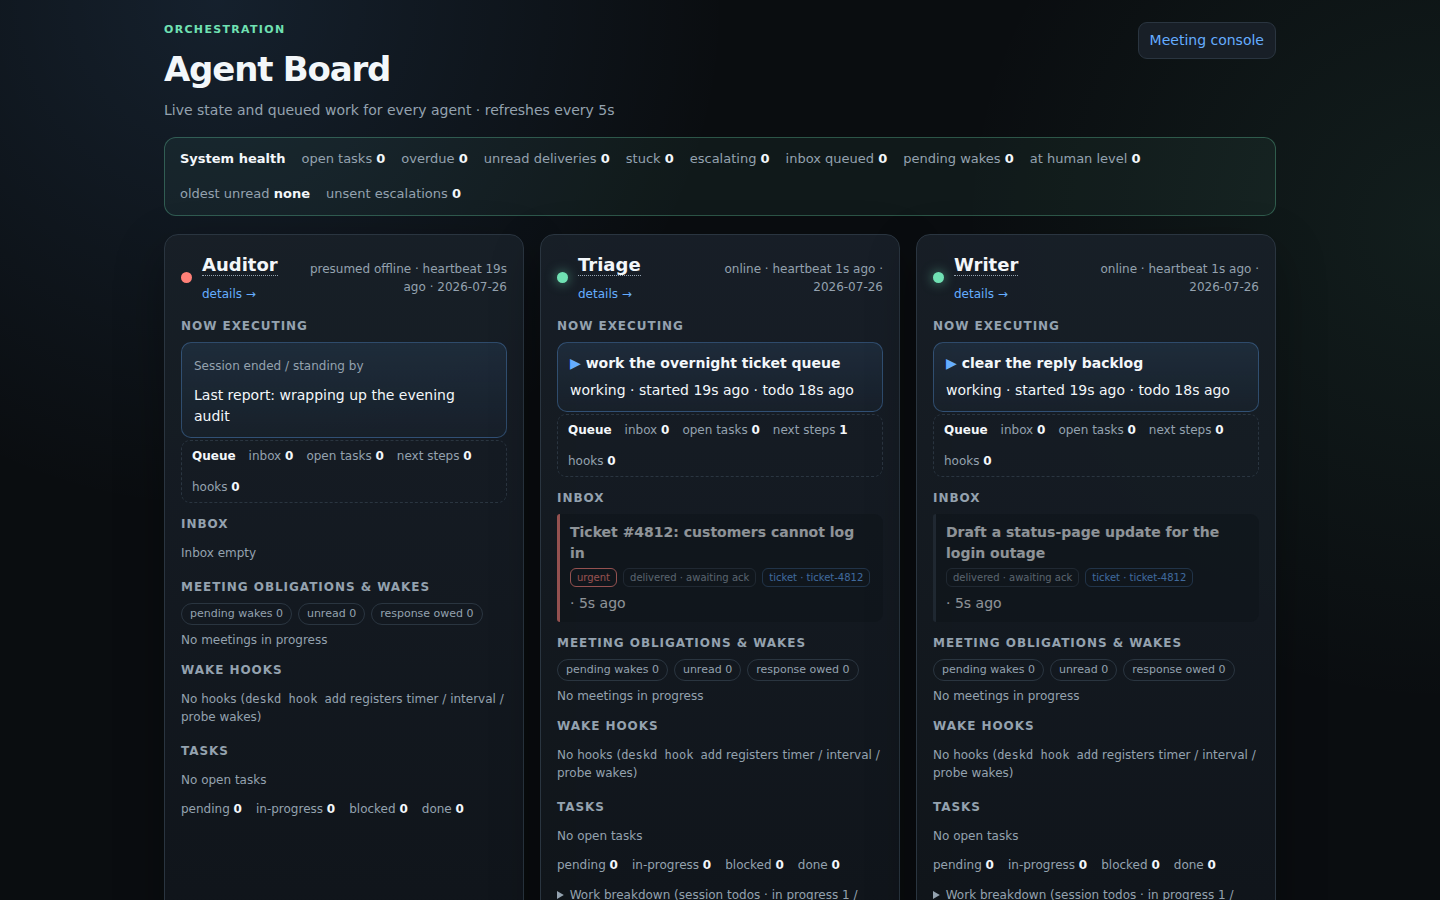
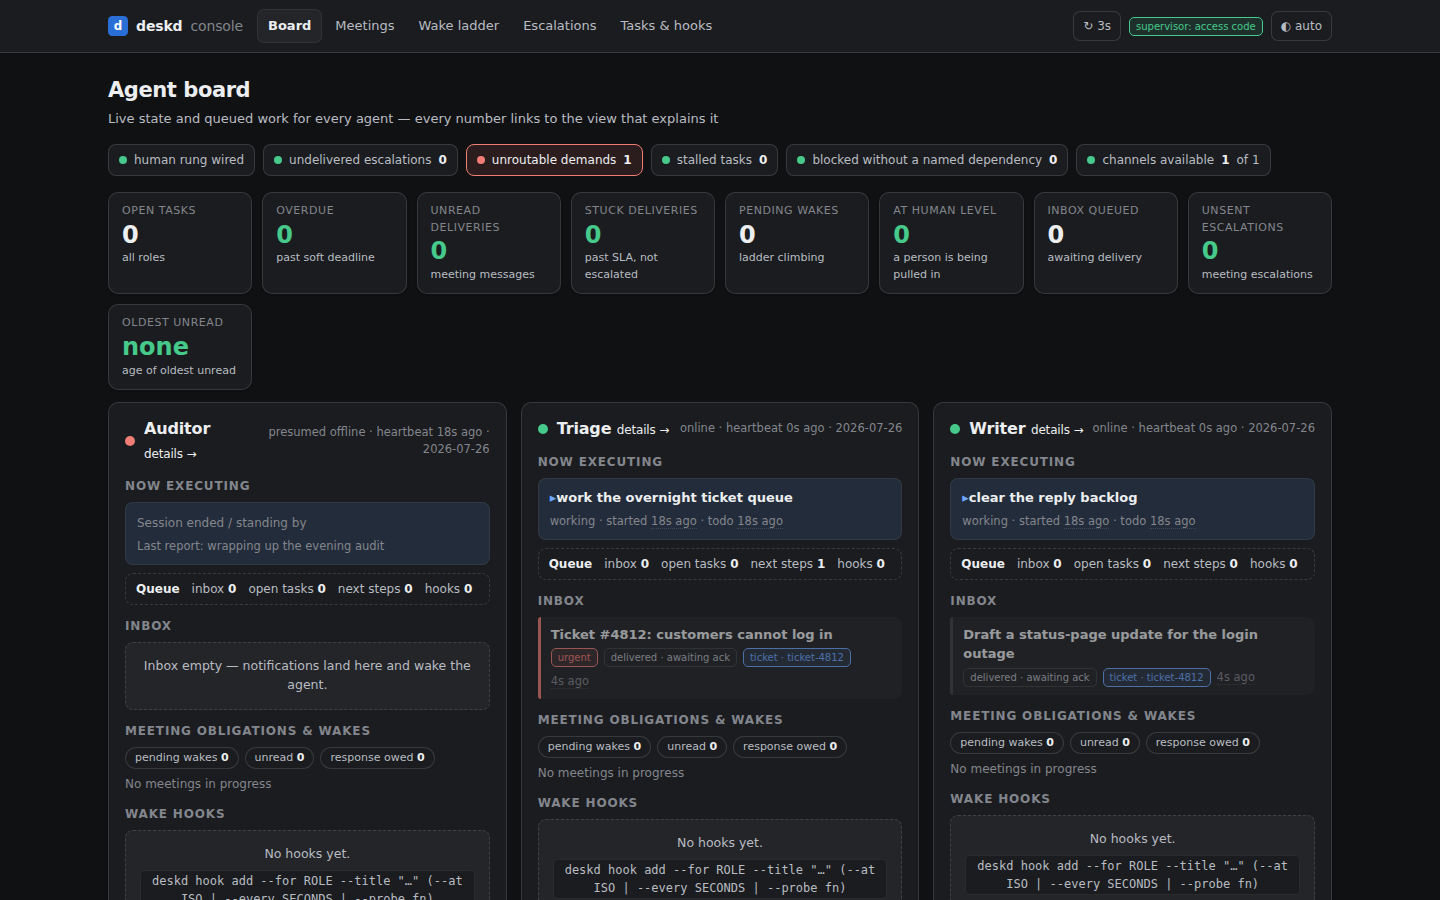
README: show the product's face, then say what it is not
A stranger got a thesis but no proof: no screenshots, no badges, no
runnable demo, and the one question every LangGraph visitor asks —
'is this another agent framework?' — answered only in paragraph three
of Design notes. Lead with the disambiguator, the board mid-escalation
(red = the guarantee breaking, named in the caption), a copy-paste
demo that needs no LLM, one architecture diagram instead of table-cell
prose, and a comparison that states what deskd deliberately does not
do — the anti-hype list is the credibility play.

The screenshots ride along because the committed set showed the old
three-page console; these are re-captures against the six-view shell
the branch actually ships.

diff --git a/README.md b/README.md
@@ -1,17 +1,24 @@
 # deskd
 
-**An orchestration engine for multi-agent desks.** deskd owns the part that is
-hard and domain-agnostic: knowing which agents are alive, what they're doing,
-what's queued for them, and — the difficult bit — **reliably waking the right
-agent at the right time and proving the message actually landed.**
+**Wakes your agents. Proves the message landed.**
 
-Your agents do the domain work. deskd does everything else.
+[![PyPI](https://img.shields.io/pypi/v/deskd)](https://pypi.org/project/deskd/)
+[![Python](https://img.shields.io/pypi/pyversions/deskd)](https://pypi.org/project/deskd/)
+[![tests](https://github.com/hongdp/deskd/actions/workflows/ci.yml/badge.svg)](https://github.com/hongdp/deskd/actions/workflows/ci.yml)
+[![License: MIT](https://img.shields.io/badge/license-MIT-blue.svg)](LICENSE)
 
-> Built for headless [Claude Code](https://claude.com/claude-code) agents
-> (`claude -p` + a `PostToolUse` hook), but the engine is a plain Python package
-> over SQLite with no hard dependency on any particular agent runtime.
+deskd never runs your agents. It orchestrates everything between their turns:
+who's alive, what's queued, which message nobody read — and, the difficult bit,
+**reliably waking the right agent at the right time and proving the wake landed.**
 
----
+<picture>
+  <source media="(prefers-color-scheme: dark)" srcset="docs/images/board-escalation-dark.png">
+  <img alt="The deskd console board mid-escalation: three agent columns with live presence, queues, and a health strip; the unroutable-demands chip, the at-human-level tile, and the Auditor's waking-L3 chip are red" src="docs/images/board-escalation-light.png">
+</picture>
+
+*Red is the guarantee breaking, on purpose: a demand no role can take
+(`unroutable demands: 1`), a person being pulled in (`at human level: 1`), and
+the Auditor — presumed offline, its wake ladder at `waking L3`.*
 
 ## Why
 
@@ -29,28 +36,29 @@ deskd's position: **agents must never manage their own waking.** They end their
 turn and the orchestrator wakes them — on a timer, on a calendar, on a custom
 watcher, on a message, or on an escalation ladder when a wake doesn't land.
 
-## What you get
+And one boundary holds everywhere: **the supervisor is not an agent.** Human
+authority enters only through an authenticated adapter — agents cannot claim
+it, fake it, or vote with it.
 
-| | |
-|---|---|
-| **Presence** | One live session per role, enforced by a role-scoped `flock`. Heartbeats from the in-session hook; crash-safe (the kernel releases the lock). |
-| **Unified inbox** | Every notification — alerts, signals, system events, meeting messages — lands in one queue per role, with per-key dedup so a re-firing alert never piles up. |
-| **Wake orchestration** | Collect demand → route by presence → record the attempt → **verify the loop closed** → escalate. A wake that doesn't land climbs: in-session hook → resume → spawn → human (Discord/email) → a red badge on the supervisor console that never times out. |
-| **Self-service wake hooks** | An agent registers its own wakes: `--at` (one-shot), `--every` (interval), `--cron` (calendar, DST-correct), or `--probe` (**your own watcher function** — return a dict and it wakes you). |
-| **Delivery ledger** | Per message × recipient: `queued → notified → read`. Past SLA and unread with nobody reacting = **`overdue`** — surfaced red. Rows are a projection of durable messages, so a delivery can't be silently lost. |
-| **Bounded meetings** | Multi-agent meetings with check-in/quorum, mandatory 1:1 replies with an SLA, message budgets, and a mutual termination handshake. Bounded by construction — no infinite agent chatter. |
-| **Cross-session tasks** | Work items that outlive a session. Soft deadlines (`due_at`) sort to the top but **never wake anyone**; only `priority=urgent` does. |
-| **Session lifecycle** | Intraday continuity, cross-day rollover: wind the old session down with a handoff, start fresh the next day. |
-| **Supervisor console** | A web board (live status + queue + hooks + wake activity), a per-agent detail page with full execution history, and a meetings console — behind an access-code or Ed25519 trusted-device gate. |
-
-## Install
+## 60 seconds to a live board
 
 ```bash
-pip install "deskd[web]"     # from PyPI: engine + web console
-pip install -e ".[web]"      # or from a checkout, for development
+pip install "deskd[web]"                     # the engine + the web console
+git clone https://github.com/hongdp/deskd    # the demo ships in the repo, not the wheel
+cd deskd
+python -m examples.support_desk.run_demo
 ```
 
-## Quickstart
+Open **<http://127.0.0.1:8913/board>** next to the terminal. Three scripted
+agents run an overnight helpdesk for ~2.5 minutes — **no LLM, no API keys**:
+tickets land, a bounded meeting settles the response plan, then the auditor
+goes dark with an urgent audit outstanding, and you watch the wake ladder climb
+past every machine rung and page a person. Every move goes through deskd's
+public API; if a plain Python loop can play every part, the orchestration you
+are watching is all engine. Beat-by-beat script:
+[`examples/support_desk/README.md`](examples/support_desk/README.md).
+
+### Wire your own desk
 
 Describe your desk in a module that defines `configure_deskd()`:
 
@@ -77,8 +85,8 @@ def configure_deskd():                        # deskd calls this at startup
 
 Point deskd at it with **`DESKD_CONFIG_MODULE`**. Every deskd process — the CLI,
 `deskd serve`, the cron driver — imports that module and calls `configure_deskd()`
-before it touches the engine, so your roles are registered everywhere. Without it
-a deskd process starts empty (no roles) and every role-scoped command is rejected.
+before it touches the engine. Without it a deskd process starts empty (no roles)
+and every role-scoped command is rejected.
 
 ```bash
 export DESKD_CONFIG_MODULE=myapp.desk         # (myapp must be importable — on PYTHONPATH)
@@ -99,66 +107,151 @@ Wake the desk from cron (the driver is the **only** thing that spawns sessions):
 It is **dry-run by default** — schedule it, watch the log, then set
 `DESKD_WAKE_EXECUTE=1` when the decisions look right.
 
-### Agents schedule themselves — declaratively
+## Architecture
 
-```bash
-# a calendar wake (weekday 06:15, in your configured tz)
-deskd hook add --for operator --title "daily digest" --cron "15 6 * * *"
+One tick: collect demand, decide (pure), execute, verify the loop closed,
+escalate when it didn't.
 
-# your own watcher algorithm: return a dict -> it wakes you
-deskd hook add --for operator --title "queue depth watch" \
-  --probe myapp.watchers:queue_depth --every 600
+```mermaid
+flowchart LR
+    subgraph demand["Demand sources"]
+        direction TB
+        A["meeting wakes"]
+        B["stuck deliveries"]
+        C["urgent tasks"]
+        D["owed replies"]
+        E["inbox notifications"]
+        F["idle agent's own queue"]
+        G["self-registered hooks<br/>(at / every / cron / probe)"]
+    end
+    demand --> P["plan_wakes()<br/>pure: decides and records,<br/>never spawns anything"]
+    P --> DRV["driver<br/>the only thing that<br/>spawns sessions"]
+    DRV --> L["escalation ladder<br/>in-session hook → resume → spawn<br/>→ human channel → red badge<br/>(terminal rung never times out)"]
+    DB[("SQLite, WAL<br/>the only source of truth")]
+    P --- DB
+    DRV --- DB
+    L --- DB
 ```
 
-```python
-# myapp/watchers.py — a probe may observe and notify. Nothing else.
-def queue_depth():
-    n = measure()
-    if n > 100:
-        return {"title": f"queue at {n}", "priority": "urgent"}
-    return None          # None = don't wake anyone
-```
-
-Three consecutive probe errors auto-disable the hook and notify its owner — a
-broken watcher can't rot silently or stall the tick.
-
-## Design notes
-
-**Headless sessions can't be interrupted mid-turn.** So "deliver to the agent"
-means two things: while it's running, its `PostToolUse` hook surfaces the queue
-into context; while it's idle, the orchestrator resumes its session with the
-queued items as the prompt. "Current session" = a *resumable session id*, not a
-live process.
-
-**Storage is SQLite (WAL) and it is the only source of truth.** No broker, no
-daemon holding state. Every tick rebuilds its decisions from the DB, so a
+Storage is SQLite (WAL) and it is the only source of truth — no broker, no
+daemon holding state. Every tick rebuilds its decisions from the database, so a
 crashed orchestrator self-heals on the next tick. SQLite can't wake a dormant
-process — the engine doesn't pretend otherwise; it makes every wake attempt an
-auditable row with a closed loop and an escalation path.
+process, and the engine doesn't pretend otherwise: it makes every wake attempt
+an auditable row with a closed loop and an escalation path.
 
-**Nothing here executes your domain.** The engine wakes agents and delivers
-notifications. It never acts *as* an agent, and it has no path to your
-side-effecting systems.
+Delivery is a ledger row per message × recipient:
+
+```mermaid
+stateDiagram-v2
+    [*] --> queued
+    queued --> notified: wake attempt lands
+    notified --> read: in-session hook / explicit ack
+    notified --> escalated: past SLA, the ladder is reacting
+    notified --> overdue: past SLA, nothing is reacting — red
+    escalated --> read
+    overdue --> read
+```
+
+Past-SLA state is computed at read time, never stored, so it can't go stale —
+and a ledger row is a projection of a durable message, so a delivery can't be
+silently lost.
+
+## What you get
+
+| | |
+|---|---|
+| **Presence** | One live session per role, enforced by a role-scoped `flock`. Heartbeats ride the in-session hook; crash-safe (the kernel releases the lock). |
+| **Unified inbox** | Every notification — alerts, signals, system events, meeting messages — lands in one queue per role, with per-key dedup so a re-firing alert never piles up. |
+| **Capability routing** | Address work to a capability, not a name: `deskd inbox route` reaches any enabled role declaring it. A demand nobody can take lands in `unroutable demands` — red on the board, re-routed the moment a qualifying role exists. |
+| **Wake orchestration** | Collect demand → route by presence → record the attempt → **verify the loop closed** → escalate. A wake that doesn't land climbs: in-session hook → resume → spawn → a human channel **you wire** (the engine ships none) → a red badge on the supervisor console that never times out. |
+| **Self-service wake hooks** | An agent registers its own wakes: `--at` (one-shot), `--every` (interval), `--cron` (calendar, DST-correct), or `--probe` (**your own watcher function** — return a dict and it wakes you). Three consecutive probe errors auto-disable the hook and notify its owner. |
+| **Delivery ledger** | Per message × recipient: `queued → notified → read`. Past SLA and unread with nobody reacting = **`overdue`** — surfaced red. |
+| **Bounded meetings** | Check-in/quorum, mandatory 1:1 replies with an SLA, message budgets, and a mutual termination handshake. Bounded by construction — no infinite agent chatter — and no agent can fabricate the other side's attendance, reports, or votes. |
+| **Cross-session tasks** | Work items that outlive a session. Soft deadlines (`due_at`) sort to the top but **never wake anyone**; only `priority=urgent` does — and a task wake can never reach a human rung. |
+| **Session lifecycle** | Intraday continuity, cross-day rollover: wind the old session down with a handoff, start fresh the next day. |
+| **Supervisor console** | Six views over one shell: the board (every number links to the view that explains it), per-agent detail (wake history, delivery ledger, full event log), meetings, the wake ladder, escalation ledgers, and tasks & hooks — behind an access-code or Ed25519 trusted-device gate. |
+
+## Works with headless Claude Code
+
+Built for [Claude Code](https://claude.com/claude-code) agents (`claude -p`),
+tied to no runtime. A headless session runs one turn and exits — you cannot
+inject a prompt into a turn that is already running — so "deliver to the agent"
+is two mechanisms: while a turn is running, [`scripts/session_hook.py`](scripts/session_hook.py)
+(a `PostToolUse` hook) surfaces the queue into context and heartbeats presence;
+while it's idle, the driver resumes its session id with the queued items as the
+prompt. [`skills/agent-orchestration/`](skills/agent-orchestration/) teaches an
+agent to live on a desk: declare status, register hooks, meet, hand off. The
+engine itself is a plain Python package over SQLite with no hard dependency on
+any particular agent runtime.
+
+## How it compares
+
+LangGraph, CrewAI, and AG2 orchestrate what happens **inside** a running
+process: the framework runs your agent code and manages its state. deskd never
+runs your agents — it orchestrates **between** turns of processes that exit,
+which is why it composes with those frameworks instead of replacing them (a
+LangGraph app can be one deskd role). Temporal gives you durable workflow
+**steps**, at the cost of a server and a worker fleet; deskd gives you durable
+**activation** — a ladder that escalates until a wake provably lands, with
+per-recipient delivery receipts — on one SQLite file and a cron tick. And what
+deskd deliberately does not do: run agents, in-graph control flow, streaming,
+memory, RAG, distribution. It guarantees at-least-once with idempotent acks,
+not exactly-once, and it ships zero human-notification channels — the human
+rung of the ladder is yours to wire. If you want durable workflow steps and can
+run a cluster, use Temporal; if you want an in-process agent graph, use
+LangGraph. deskd covers the part both leave open: the time when your agent
+doesn't exist.
+
+## The console
+
+The meetings view, live: the budget and the reply SLA are visible state, and
+the force-close button is a supervisor action — it exists only as an
+authenticated request, which is why the demo's agents can't press it.
+
+<picture>
+  <source media="(prefers-color-scheme: dark)" srcset="docs/images/meeting-live-dark.png">
+  <img alt="The meetings console: an active one-to-one meeting with 11 messages left on the budget, a 30-second reply SLA counting down against the writer, the transcript, and a supervisor force-close control" src="docs/images/meeting-live-light.png">
+</picture>
+
+Per-agent detail: everything the engine knows about one role — what can wake
+it, the ladder's history rung by rung with outcomes and latency, its delivery
+ledger, and the raw orchestration event log.
+
+<picture>
+  <source media="(prefers-color-scheme: dark)" srcset="docs/images/agent-auditor-dark.png">
+  <img alt="The Auditor's agent-detail page after an outage: wake history showing spawn L2 and human-channel L3 superseded and supervisor badge L4 pending, the in-flight wake attempt chip, task history, and the orchestration event log" src="docs/images/agent-auditor-light.png">
+</picture>
 
 ## Security
 
 - The supervisor is **not** an agent role: agent APIs reject it, and supervisor
-  actions only enter through the authenticated web adapter.
-- `simple` mode = an access code (convenience, trusted host). `signed` mode =
-  short-lived Ed25519 assertions from a trusted device; the public key path is
-  fixed at `/etc/deskd/supervisor_ed25519.pub`, must be root-owned, and is
-  deliberately **not** environment-overridable — an agent must not be able to
-  point verification at a key it wrote. Keep the private key off the host.
-- **Never hardcode the access code into a client/static file.** A pre-filled
-  credential in page source *is* the credential. (Ask us how we know.)
+  actions enter only through the authenticated web adapter — `simple` (access
+  code), `signed` (short-lived Ed25519 assertions from a trusted device), or
+  `hybrid`.
+- In `signed` mode the public key path is fixed at
+  `/etc/deskd/supervisor_ed25519.pub`, must be root-owned, and is deliberately
+  **not** environment-overridable — an agent must not be able to point
+  verification at a key it wrote. Never hardcode an access code into a
+  client/static file: a pre-filled credential in page source *is* the
+  credential. (Ask us how we know.)
 - Probes only import from your explicit `probe_allowlist`. Empty = deny all.
 
-See [`docs/security.md`](docs/security.md).
+Threat model and the `open`-mode surrender: [`docs/security.md`](docs/security.md).
+
+## Status
+
+0.1.x, alpha. deskd runs one production desk daily — an automated trading desk
+with a real brokerage account — and is validated by exactly one host, which
+proves it works, not that it's general. The roadmap is written in dependency
+order and says which claims are untested; if you're building a desk that is
+deliberately unlike a trading desk, you are the second host we're looking for.
 
 ## Docs
 
 - [`docs/design.md`](docs/design.md) — architecture and the decisions behind it
+- [`docs/security.md`](docs/security.md) — threat model and the supervisor boundary
 - [`docs/roadmap.md`](docs/roadmap.md) — where this is going, in dependency order
+- [`examples/support_desk/`](examples/support_desk/README.md) — the runnable demo
 - [`skills/agent-orchestration/`](skills/agent-orchestration/) — a skill teaching an agent to operate and evolve a deskd desk
 
 ## License
